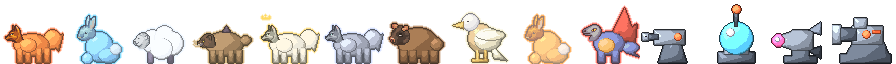
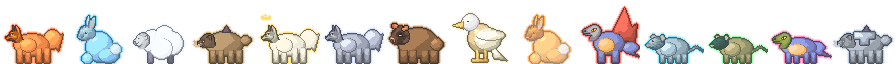
기공사 소환수를 포탑 대신 동물(번개 쥐·수호 쥐·광선 도마뱀·철갑 멧돼지)로 되돌림, 쥐·도마뱀 네발 몸 추가
Claude-Session: https://claude.ai/code/session_01HhJ2NoNCjk5kaA3GWL7UDs

Changed region(s): [[0.6875, 0.0625, 1.0, 1.0]]

diff --git a/tools/iso/lpc/pet_lpc.py b/tools/iso/lpc/pet_lpc.py
@@ -1,6 +1,6 @@
 # 소환수 14종 → public/art/pets.png (64칸, 왼쪽(적 쪽)을 보고 서 있는 모습)
 #   정령 동물 10: 몸은 네발·날개 달린 동물로 직접 그리고(beasts.py와 같은 6단계 음영·색 외곽선), 얼굴은 LPC 동물 머리를 붙여요. 속성 색 빛·반투명
-#   포탑 4: 직접 그린 기계 (받침·포신·렌즈)
+#   기공사 소환수 4(번개 쥐·수호 쥐·광선 도마뱀·철갑 멧돼지)도 같은 방식
 #   python3 pet_lpc.py <LPC 저장소 경로> [미리보기.png]   순서는 index.html의 XPETI와 같아요
 import sys, os, subprocess
 sys.argv = sys.argv[:3]
@@ -58,7 +58,16 @@ def dragon(r, hd, skin):
     a = S.render(); over(a, head(hd, skin, 16, 32)); return a
 def crown_px(a, x, y):
     px(a, [(x + i, y + 4) for i in range(8)] + [(x, y + 3), (x, y + 2), (x + 3, y + 3), (x + 3, y + 1), (x + 7, y + 3), (x + 7, y + 2)], '#FFD84A')
-# 포탑 4종 (기계: 받침·몸통·포신·렌즈)
+def rodent(r, hd, skin, tail='#E8A8B8'):   # 쥐: 작은 네발 몸 + 가는 꼬리
+    S = Sprite(); S.add('rabo' if False else r, lambda d: [d.line([(46, 52), (56, 46), (62, 50)], width=2)], -.1); S.add(r, lambda d: d.ellipse([16, 38, 48, 58])); legs(S, r, [20, 28, 36, 42], 54, 62, w=4); S.add(r, lambda d: d.ellipse([20, 42, 36, 56]), .12)
+    a = S.render(); over(a, head(hd, skin, 15, 42, 1.0)); return a
+def lizard(r, hd, skin):   # 도마뱀: 길쭉한 네발 몸 + 긴 꼬리
+    S = Sprite(); S.add(r, lambda d: [d.polygon([(44, 44), (62, 56), (50, 54)]), d.ellipse([40, 42, 56, 52])], .05); S.add(r, lambda d: d.ellipse([14, 38, 48, 56])); legs(S, r, [18, 26, 36, 43], 52, 62, w=4); S.add('yellow', lambda d: d.ellipse([20, 44, 38, 55]), .12)
+    a = S.render(); over(a, head(hd, skin, 14, 40)); return a
+def armor_boar(r, hd, skin):   # 철갑 멧돼지: 멧돼지 + 철판
+    a = boar(r, hd, skin); S = Sprite(); S.add('steel', lambda d: [d.rectangle([22, 32, 42, 38]), d.rectangle([28, 34, 36, 44])], .1); over(a, S.render()); return a
+# 포탑 4종 (기계: 받침·몸통·포신·렌즈) — 지금은 쓰지 않아요
+
 def turret_s():
     S = Sprite(); S.add('steel2', lambda d: [d.polygon([(18, 62), (24, 44), (40, 44), (46, 62)]), d.rectangle([28, 40, 36, 52])]); S.add('steel', lambda d: d.rectangle([14, 30, 44, 44])); S.add('steel2', lambda d: d.rectangle([4, 34, 18, 39]), -.05)
     S.add('steel', lambda d: d.rectangle([2, 33, 8, 40]), .1); S.add('ember', lambda d: d.ellipse([34, 33, 41, 40]), .15); a = S.render(); px(a, [(5, 36), (6, 36)], '#1A1020'); return a
@@ -77,7 +86,8 @@ PETS = [  # 이름, 그리는 함수, 빛 색(없으면 기계), 투명도
  ('정령왕', lambda: (lambda a: (crown_px(a, 6, 14), a)[1])(wolf('wolfw', 'wolf/child', 'fur_white')), (255, 214, 90), .9), ('늑대', lambda: wolf('wolfg', 'wolf/child', 'fur_grey'), (200, 215, 255), .9),
  ('곰', lambda: bear('bear', 'minotaur/child', 'fur_brown'), (170, 115, 70), .92), ('독수리', lambda: eagle('eagle', None, None), (240, 232, 190), .9),
  ('호박 유령', lambda: rabbit('rabo', 'rabbit/child', 'fur_copper'), (255, 150, 40), .6), ('용', lambda: dragon('drag', 'lizard/child', 'blue'), (255, 80, 60), .9),
- ('번개 쥐', turret_s, None, 1), ('수호 쥐', turret_h, None, 1), ('광선 도깨비', turret_l, None, 1), ('철갑 트롤', turret_f, None, 1)]
+ ('번개 쥐', lambda: rodent('wolfg', 'mouse/child', 'fur_grey'), (90, 230, 255), .88), ('수호 쥐', lambda: rodent('boar', 'rat/child', 'fur_black'), (120, 255, 150), .88),
+ ('광선 도마뱀', lambda: lizard('drag', 'lizard/child', 'bright_green'), (255, 100, 170), .88), ('철갑 멧돼지', lambda: armor_boar('wolfg', 'boarman/child', 'fur_grey'), (170, 190, 210), .9)]
 def dil(m):
     d = m.copy(); d[1:] |= m[:-1]; d[:-1] |= m[1:]; d[:, 1:] |= m[:, :-1]; d[:, :-1] |= m[:, 1:]; return d
 sheet = np.zeros((64, 64 * len(PETS), 4), np.uint8)
